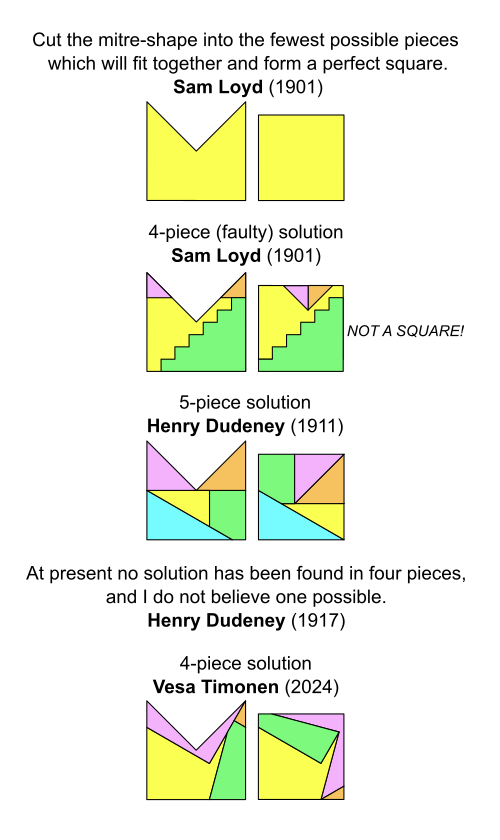
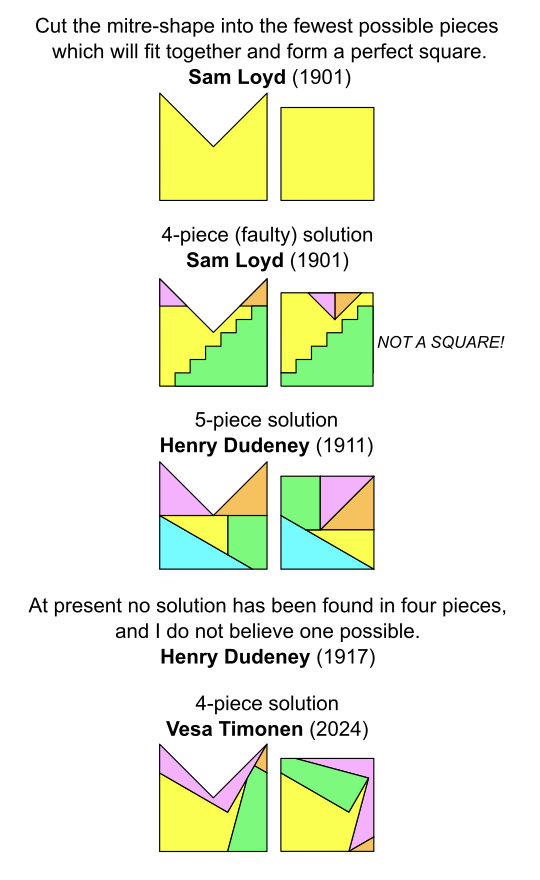
Finetune images

Changed region(s): [[0.06, 0.0, 0.93, 0.9905]]

diff --git a/index.html b/index.html
@@ -52,9 +52,6 @@
             <a href="https://archive.org/details/TheStrandMagazineVolume41/page/746">            [Dudeney, 1911a] </a>
             <a href="https://archive.org/details/in.ernet.dli.2015.21604/page/n113">             [Dudeney, 1911b] </a><br><br>
 
-            Since Dudeney's revelation, several individuals have proposed new 5-piece solutions.
-            <a href="https://mp.weixin.qq.com/s/Kb_oBJUdloy09loHT3cdqQ"> [Wei] </a><br><br>
-
             The quest for a 4-piece solution has continued until recently (May 2024). This solution has one piece (green) that is flipped over, leaving room for further improvement.<br>
             <br>
             <img src="images/mitre_presentation.png" style="border: 1px solid black; border-radius: 20px; display: block; margin: 0 auto;"/>
@@ -84,7 +81,12 @@
 
         <!-- 5-PIECE SOLUTIONS -->
         <h2 style="text-align: center;">5-PIECE SOLUTIONS</h2>
-            There are infinitely many solutions to the mitre puzzle, as cutting lines, in some solutions, can be smoothly shifted to generate numerous new dissections.<br>
+            Since Dudeney's revelation, several individuals have proposed new 5-piece solutions.
+            <a href="https://mp.weixin.qq.com/s/Kb_oBJUdloy09loHT3cdqQ"> [Wei] </a><br><br>
+
+            The software was mainly done to find 5-piece solutions and it just happened that in one 5-piece solution it was possible to glue two pieces together to produce 4-piece solution.
+
+            There are infinitely many 5-piece solutions to the mitre puzzle, as cutting lines, in some solutions, can be smoothly shifted to generate numerous new dissections.<br>
             There is a small chance that some of the solutions are not mathematically accurate, even though they are numerically very close.<br>
 
 
